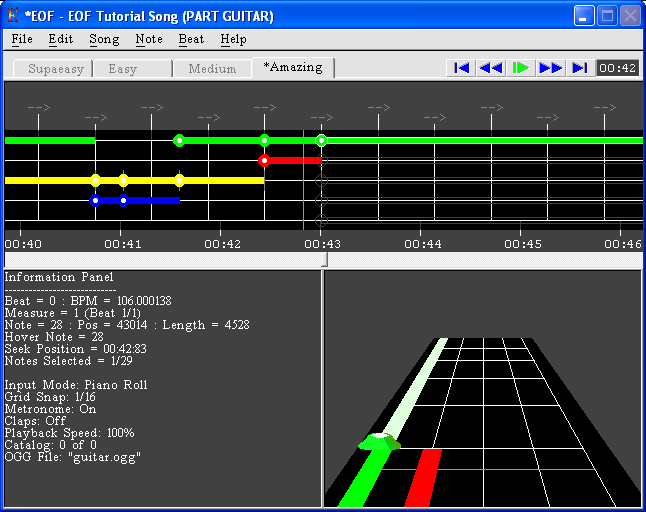
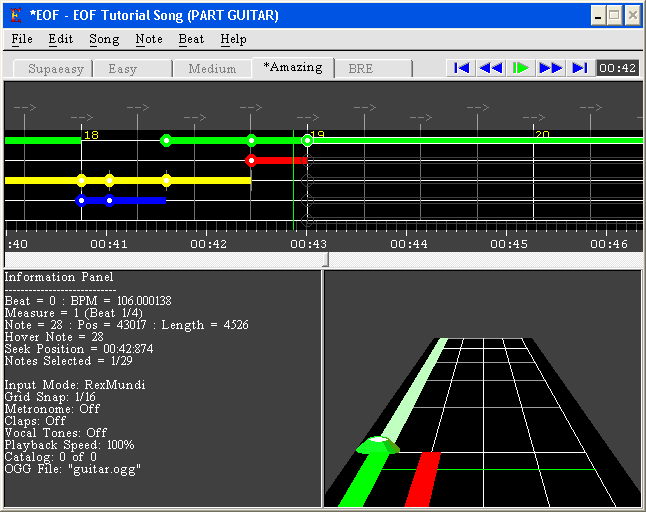
I remade the EOF screen captures to reflect the current features, and added some more information on features such as the waveform graph and measure numbering.
git-svn-id: http://editor-on-fire.googlecode.com/svn/trunk@407 1b2aedea-9eff-cdc0-263b-b87a75789507

diff --git a/bin/tutorial/index.htm b/bin/tutorial/index.htm
@@ -8,7 +8,7 @@ p {text-indent: 1cm}
 </HEAD>
 <BODY BGCOLOR="313131" TEXT="FFFFFF" LINK="FFFFFF" VLINK="FFFFFF" ALINK="FFFFFF" >
 
-<center><IMG SRC="logo.png" ALT="Logo" BORDER=0 HSPACE=0 VSPACE=3><bR><br></center>
+<center><IMG SRC="logo.png" ALT="Logo" BORDER=0 HSPACE=0 VSPACE=3><br><br></center>
 <center>A song editor for "Frets On Fire"</center><br>
 
 <h1><a name="tutorial">Tutorial</a></h1>
@@ -16,78 +16,88 @@ p {text-indent: 1cm}
 
 <h1><a name="newproject">Creating a New Project</a></h1>
 Select "New" from the "File" menu:<br><br>
-<center><IMG SRC="image3.png" ALT="screen" BORDER=0 HSPACE=0 VSPACE=3><bR><br></center>
+<center><IMG SRC="image3.png" ALT="screen" BORDER=0 HSPACE=0 VSPACE=3><br><br></center>
 
 You will see this screen:<br><br>
-<center><IMG SRC="image4.png" ALT="screen" BORDER=0 HSPACE=0 VSPACE=3><bR><br></center>
+<center><IMG SRC="image4.png" ALT="screen" BORDER=0 HSPACE=0 VSPACE=3><br><br></center>
 
 You will need to select an OGG or MP3 file to use for this project. I've included a simple song which we will use for the purpose of this tutorial. Select "tutorial.ogg" located in the EOF folder:<br><br>
-<center><IMG SRC="image5.png" ALT="screen" BORDER=0 HSPACE=0 VSPACE=3><bR><br></center>
+<center><IMG SRC="image5.png" ALT="screen" BORDER=0 HSPACE=0 VSPACE=3><br><br></center>
 
-Now you will have to tell EOF where you would like the new project to be saved. For this tutorial we will let EOF create a new folder for us. Select the "Create New Folder" radio button and fill in the name of the song folder in the edit box:<br><br>
-<center><IMG SRC="image6.png" ALT="screen" BORDER=0 HSPACE=0 VSPACE=3><bR><br></center>
+Now you can fill in the basic song information:<br><br>
+<center><IMG SRC="image7.png" ALT="screen" BORDER=0 HSPACE=0 VSPACE=3><br><br></center>
 
-Finally, we can fill in the basic song information:<br><br>
-<center><IMG SRC="image7.png" ALT="screen" BORDER=0 HSPACE=0 VSPACE=3><bR><br></center>
+Finally, you will tell EOF where you would like the new project to be saved. For this tutorial we will let EOF create a new folder for us. Select the "Create New Folder" radio button and fill in the name of the song folder in the edit box:<br><br>
+<center><IMG SRC="image6.png" ALT="screen" BORDER=0 HSPACE=0 VSPACE=3><br><br></center>
+
 If the new project is successfully created, the EOF window should now look like this:<br><br>
-<center><IMG SRC="image8.png" ALT="screen" BORDER=0 HSPACE=0 VSPACE=3><bR><br></center>
+<center><IMG SRC="image8.png" ALT="screen" BORDER=0 HSPACE=0 VSPACE=3><br><br></center>
 
 <h1><a name="tempomap">Creating a Tempo Map</a></h1>
 The first thing you will want to do when creating a song is set up a proper tempo map. While this step is not necessary to make a playable song, it will speed up the fretting process and give your song a professional touch.<br><br>
 You will need to turn on the metronome. Do so by selecting "Edit->Metronome" from the menu:<br><br>
-<center><IMG SRC="image9.png" ALT="screen" BORDER=0 HSPACE=0 VSPACE=3><bR><br></center>
+<center><IMG SRC="image9.png" ALT="screen" BORDER=0 HSPACE=0 VSPACE=3><br><br></center>
 With the metronome on you will be able to audibly hear the beat markers while the song is playing. Press play (Space) and listen for about 4 seconds. Notice the first drum beat occurs around the 2 second mark. We want to move the first beat marker so that it matches the first beat of the song. Rewind to the beginning of the song (Home) drag the first beat marker to the 2 second mark:<br><br>
-<center><IMG SRC="image10.png" ALT="screen" BORDER=0 HSPACE=0 VSPACE=3><bR><br></center>
+<center><IMG SRC="image10.png" ALT="screen" BORDER=0 HSPACE=0 VSPACE=3><br><br></center>
 Now rewind to the beginning again and press play. If the metronome sounds exactly when the first beat starts (when you first hear the drums in this case) the beat marker has been placed correctly. If not you will have to adjust it until it is correct. Here's what mine looks like when it's in the correct place:<br><br>
-<center><IMG SRC="image11.png" ALT="screen" BORDER=0 HSPACE=0 VSPACE=3><bR><br></center>
+<center><IMG SRC="image11.png" ALT="screen" BORDER=0 HSPACE=0 VSPACE=3><br><br></center>
 You can also use the "Song Properties" dialog to make adjustments to the position of the first beat marker by changing the "Delay" setting:<br><br>
-<center><IMG SRC="image27.png" ALT="screen" BORDER=0 HSPACE=0 VSPACE=3><bR><br></center>
+<center><IMG SRC="image27.png" ALT="screen" BORDER=0 HSPACE=0 VSPACE=3><br><br></center>
 Once we have the first beat marker in the correct place we need to find the correct BPM for the song. You can use an external program like <a href="http://www.mixmeister.com/bpmanalyzer/bpmanalyzer.asp">MixMeister BPM Analyzer</a> to find the average BPM of the song if you like. You can find the correct BPM using only EOF by listening for the start of the second measure (typically the beat after the second snare drum) and adjusting the fourth beat marker to line up with the start of the first beat of that measure. Listening to the song we can hear that the second measure starts around the 4.5 second mark so let's move the fourth beat marker:<br><br>
-<center><IMG SRC="image12.png" ALT="screen" BORDER=0 HSPACE=0 VSPACE=3><bR><br></center>
+<center><IMG SRC="image12.png" ALT="screen" BORDER=0 HSPACE=0 VSPACE=3><br><br></center>
 Rewind (Left key) a few seconds and listen to see if the fourth beat marker is in the correct place. If not, adjust it until it is correct.<br><br>
 Notice the BPM at the first beat marker has changed from 120. It should be around 106 if the beat markers are placed correctly. This is roughly the correct BPM for the song so we want to set the BPM of the entire song to 106. The easiest way to do this is to use the "Reset BPM" option from the "Beat" menu:<br><br>
-<center><IMG SRC="image13.png" ALT="screen" BORDER=0 HSPACE=0 VSPACE=3><bR><br></center>
+<center><IMG SRC="image13.png" ALT="screen" BORDER=0 HSPACE=0 VSPACE=3><br><br></center>
 You will be asked if you want to erase all BPM changes. Clicking "OK" will set the BPM of the entire song to 106.<br><br>
 If you are having trouble hearing exactly where the beats are you may find it useful to play the song back at 75% or 50% speed. To do so select "Playback Rate" from the "Edit" menu:<br><br>
-<center><IMG SRC="image28.png" ALT="screen" BORDER=0 HSPACE=0 VSPACE=3><bR><br></center>
+<center><IMG SRC="image28.png" ALT="screen" BORDER=0 HSPACE=0 VSPACE=3><br><br></center>
 Now that we have a close BPM value, we will need to listen through the entire song to ensure the beat markers are correct throughout. For most songs you will need to make small adjustments throughout as usually when a band plays they do not keep an exact BPM the entire song.<br><br>
 It is important to note that when compensating for slight variations in BPM over the course of the song you will need to set anchors (select a beat and hit the 'A' key) every measure or two. EOF readjusts all the beat markers in between the marker you click-and-drag and the previous anchor. This can cause earlier beats to be moved inadvertently so it's best to set anchors every so often even if the beats are already lined up correctly. Anchored beats are indicated by a red arrow pointing down at the beat marker. Moving a beat marker with the mouse automatically makes that beat an anchor.<br><br>
+
+You may have noticed those yellow numbers displayed next to the beat markers.  Those tell the placement of each measure and its number, based on the specified Time Signature (see <a href="../manual/functions.htm#timesignature">Beat->Time Signature</a>).  This isn't information that's even used in all versions of Frets on Fire, but it may be useful if you intend to use Time Signature information as a charting aid.  If you select the first beat marker and select Beat>Time Signature>4/4, it will set the time signature, marking every 1 of 4 beat markers with a number.  When the beat is selected, the Information Panel will also display beat and measure numbering information.<br><br>
+
+Depending on the song, it might even help to see a graphical representation of the audio in what is called a waveform graph.  You can display this graph by opening the Song menu, opening the Waveform graph submenu and selecting "Show", or you can use the F5 shortcut key:<br><br>
+<center><IMG SRC="image30.png" ALT="screen" BORDER=0 HSPACE=0 VSPACE=3><br><br></center>
+
+As you can see from the picture below, the goal is to have the beats line up with the drummer.  Although the graph won't always help you immediately identify the drum audio, it may help you make fine tuning adjustments when your hearing is in doubt:<br><br>
+<center><IMG SRC="image31.png" ALT="screen" BORDER=0 HSPACE=0 VSPACE=3><br><br></center>
+
 Once you have reached the end of the song it is a good idea to rewind to the beginning and listen to the whole song with the metronome on. If some beats are a little off go ahead and adjust them until they are correct. Having a correct tempo map is the key to creating a high quality note chart.<br><br>
 Now that the tempo map is finished it might be a good time to save your work. You may also wish to save a an extra copy of the project (see "<a href="../manual/functions.htm#saveas">File->Save As</a>") in case the tempo map is altered irreversibly later on in the edit process.
 
 <h1><a name="fretting">Fretting a Song</a></h1>
 Now let's start adding notes to our song. The first thing we want to do is select a proper grid snap setting. For this song 1/16 should suffice:<br><br>
-<center><IMG SRC="image14.png" ALT="screen" BORDER=0 HSPACE=0 VSPACE=3><bR><br></center>
+<center><IMG SRC="image14.png" ALT="screen" BORDER=0 HSPACE=0 VSPACE=3><br><br></center>
 Grid Snap allows you to more easily control the spacing between notes. The setting represents the fraction of a measure to which notes will snap. 1/4 will snap to each quarter of a measure (or each whole beat). We choose 1/16 for this tutorial because the smallest note in the song we are fretting is 1/16th of a measure in length. The Grid Snap setting also affects note tail length operations in that it will snap the tail to the previous/next grid snap position when changing the length of the tail.<br><br>
 Rewind to the beginning of the song and listen until you hear the first guitar notes played. Notice the guitar between the 11 and 12 second mark:<br><br>
-<center><IMG SRC="image15.png" ALT="screen" BORDER=0 HSPACE=0 VSPACE=3><bR><br></center>
+<center><IMG SRC="image15.png" ALT="screen" BORDER=0 HSPACE=0 VSPACE=3><br><br></center>
 We want to place some notes where the guitar is. Move the mouse to where you heard the guitar notes:<br><br>
-<center><IMG SRC="image16.png" ALT="screen" BORDER=0 HSPACE=0 VSPACE=3><bR><br></center>
+<center><IMG SRC="image16.png" ALT="screen" BORDER=0 HSPACE=0 VSPACE=3><br><br></center>
 Notice that you can see the note colors where the mouse is hovering (assuming the Edit Mode is set to Piano Roll, see <a href="../manual/edit.htm#edit">Edit Modes</a> for details). Right-click to place the notes where you think they should go:<br><br>
-<center><IMG SRC="image17.png" ALT="screen" BORDER=0 HSPACE=0 VSPACE=3><bR><br></center>
+<center><IMG SRC="image17.png" ALT="screen" BORDER=0 HSPACE=0 VSPACE=3><br><br></center>
 We've placed our first notes now but the third note needs to be longer. Click on the third note to select it and scroll the mouse wheel up (or press the ']' key) to extend it. It should now look like this:<br><br>
-<center><IMG SRC="image18.png" ALT="screen" BORDER=0 HSPACE=0 VSPACE=3><bR><br></center>
+<center><IMG SRC="image18.png" ALT="screen" BORDER=0 HSPACE=0 VSPACE=3><br><br></center>
 Now we listen for more notes and place them where we think they should go. It's really up to you where you put the notes but try and be realistic.<br><br>
 At the 21 second mark we notice something new. There are note chords. Making a chord is simply adding a new color to an existing note by right-clicking. I'm going to make mine a blue-purple chord:<br><br>
-<center><IMG SRC="image19.png" ALT="screen" BORDER=0 HSPACE=0 VSPACE=3><bR><br></center>
+<center><IMG SRC="image19.png" ALT="screen" BORDER=0 HSPACE=0 VSPACE=3><br><br></center>
 Next we're going to learn how to copy and paste notes. Many songs have riffs or melodies which repeat multiple times. We can save a lot of time if we copy the notes for these repeating parts instead of re-fretting them.<br><br>
 Fret the song up until the 38 second mark. Between the 29 second mark and the 38 second mark is a part which repeats later on and with variation so let's copy the notes to the clipboard. Select the first note/chord after the 29 second mark:<br><br>
-<center><IMG SRC="image20.png" ALT="screen" BORDER=0 HSPACE=0 VSPACE=3><bR><br></center>
+<center><IMG SRC="image20.png" ALT="screen" BORDER=0 HSPACE=0 VSPACE=3><br><br></center>
 Now forward (Right key) to the 34 second mark, hold Shift and click the last note/chord there:<br><br>
-<center><IMG SRC="image21.png" ALT="screen" BORDER=0 HSPACE=0 VSPACE=3><bR><br></center>
+<center><IMG SRC="image21.png" ALT="screen" BORDER=0 HSPACE=0 VSPACE=3><br><br></center>
 This selects all the notes from the first note you clicked to the note you Shift+clicked. We want to copy these so we go to "Copy" on the "Edit" menu:<br><br>
-<center><IMG SRC="image22.png" ALT="screen" BORDER=0 HSPACE=0 VSPACE=3><bR><br></center>
+<center><IMG SRC="image22.png" ALT="screen" BORDER=0 HSPACE=0 VSPACE=3><br><br></center>
 Now let's forward to where we want to paste the copied notes. Move the song position to somewhere in the beat where we want the pasted notes to start:<br><br>
-<center><IMG SRC="image23.png" ALT="screen" BORDER=0 HSPACE=0 VSPACE=3><bR><br></center>
+<center><IMG SRC="image23.png" ALT="screen" BORDER=0 HSPACE=0 VSPACE=3><br><br></center>
 Select "Paste" from the "Edit" menu to paste the copied notes:<br><br>
-<center><IMG SRC="image24.png" ALT="screen" BORDER=0 HSPACE=0 VSPACE=3><bR><br></center>
+<center><IMG SRC="image24.png" ALT="screen" BORDER=0 HSPACE=0 VSPACE=3><br><br></center>
 Listening to the song we can see that the last note is different this time so let's change it. I want to change my green-yellow chord to a green note so I right-click the yellow note to remove it:<br><br>
-<center><IMG SRC="image25.png" ALT="screen" BORDER=0 HSPACE=0 VSPACE=3><bR><br></center>
+<center><IMG SRC="image25.png" ALT="screen" BORDER=0 HSPACE=0 VSPACE=3><br><br></center>
 Also, notice there are a few extra notes around the 45 second mark so let's fret those:<br><br>
-<center><IMG SRC="image26.png" ALT="screen" BORDER=0 HSPACE=0 VSPACE=3><bR><br></center>
+<center><IMG SRC="image26.png" ALT="screen" BORDER=0 HSPACE=0 VSPACE=3><br><br></center>
 You can place the new notes without shortening the green note as it will be automatically shortened when new notes are placed on it's tail.<br><br>
 You can also use the Catalog to copy sections of a song from one part to another. See <a href="../manual/edit.htm#catalog">the Catalog section of Editing Songs</a> and "<a href="../manual/functions.htm#catalog">Song->Catalog</a>" for information on how to use the Catalog. Here's what the screen looks like with the first repeating guitar part added to the catalog and the catalog view turned on:<br><br>
-<center><IMG SRC="image29.png" ALT="screen" BORDER=0 HSPACE=0 VSPACE=3><bR><br></center>
+<center><IMG SRC="image29.png" ALT="screen" BORDER=0 HSPACE=0 VSPACE=3><br><br></center>
 Pressing the play button in the Catalog view will play back that specific entry so you can easily compare what's in the Catalog to other parts of the song.<br><br>
 Between the 47 and 48 second marker the entire section we just made (from 29 to 47 seconds) repeats so let's copy and paste all those notes.<br><br>
 Fill in 1:06 to 1:26 however you see fit. Congratulations, you have just fretted your first song using EOF. Don't forget to save your work.

diff --git a/bin/manual/functions.htm b/bin/manual/functions.htm
@@ -174,7 +174,7 @@ Enables/disables/toggles the freestyle status of selected lyrics.  See the <a hr
 <h1><a name="bpmchange">BPM Change</a></h1>
 Change the BPM of the currently selected beat. If "This Beat Only" is selected, only the current beat will be set to the new BPM. Further beats will remain at the old BPM setting. "Adjust Notes" causes any notes within beats affected by the BPM change to be scaled to fit (the same as the "<a href="functions.htm#preferences">"Note Auto-Adjust"</a> option when moving beat markers with the mouse).<br>
 <h1><a name="timesignature">Time Signature</a></h1>
-Set the time signature starting from the currently selected beat. This setting does not affect the outputted MIDI file and is simply a visual aid to editing. Setting up a time signature can make it easier to see where you are in the song as each measure begins with a brighter beat line.<br>
+Set the time signature starting from the currently selected beat. This setting does not affect the outputted MIDI file and is simply a visual aid to editing. Setting up a time signature can make it easier to see where you are in the song as each measure begins with a brighter beat line.  Each measure will also have its beat marker labeled with the measure's number in yellow text.<br>
 <h1><a name="add">Add</a></h1>
 Add a beat to the song and adjust the BPM of the previous anchor to make all the beats fit evenly between the previous anchor and the next. Useful if you have two anchors and you need to add some extra beats in between so there are enough beats to match the music. This function is only available when there is at least one anchor after the selected beat.<br>
 <h1><a name="beatdelete">Delete</a></h1>
